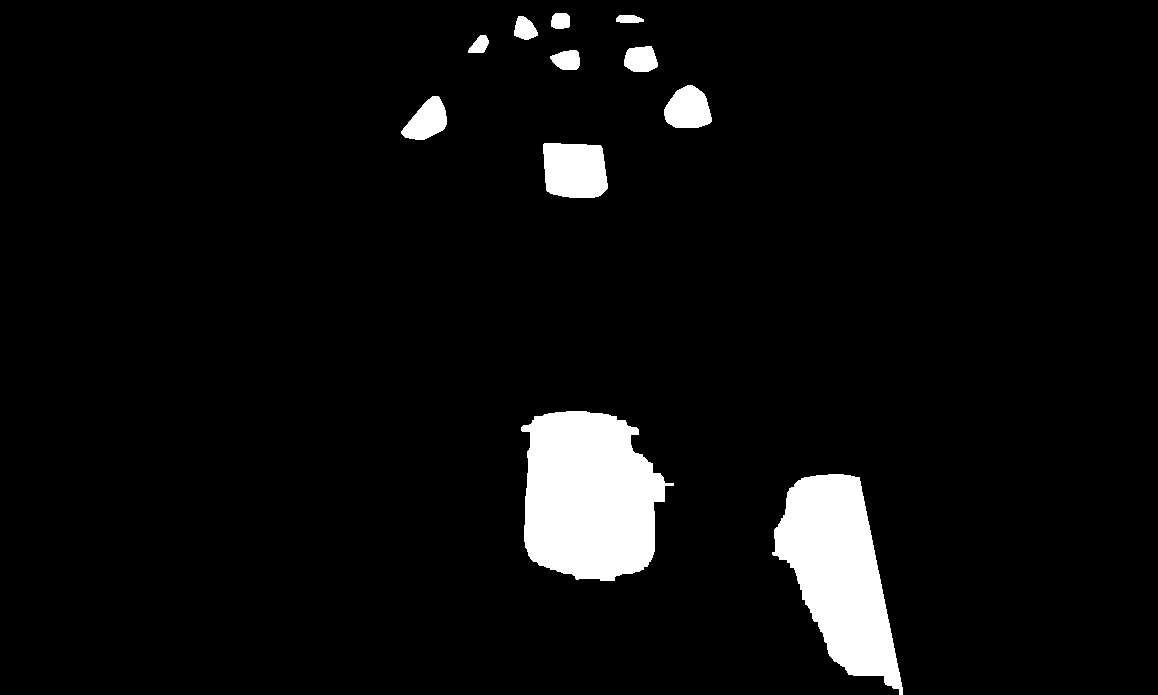
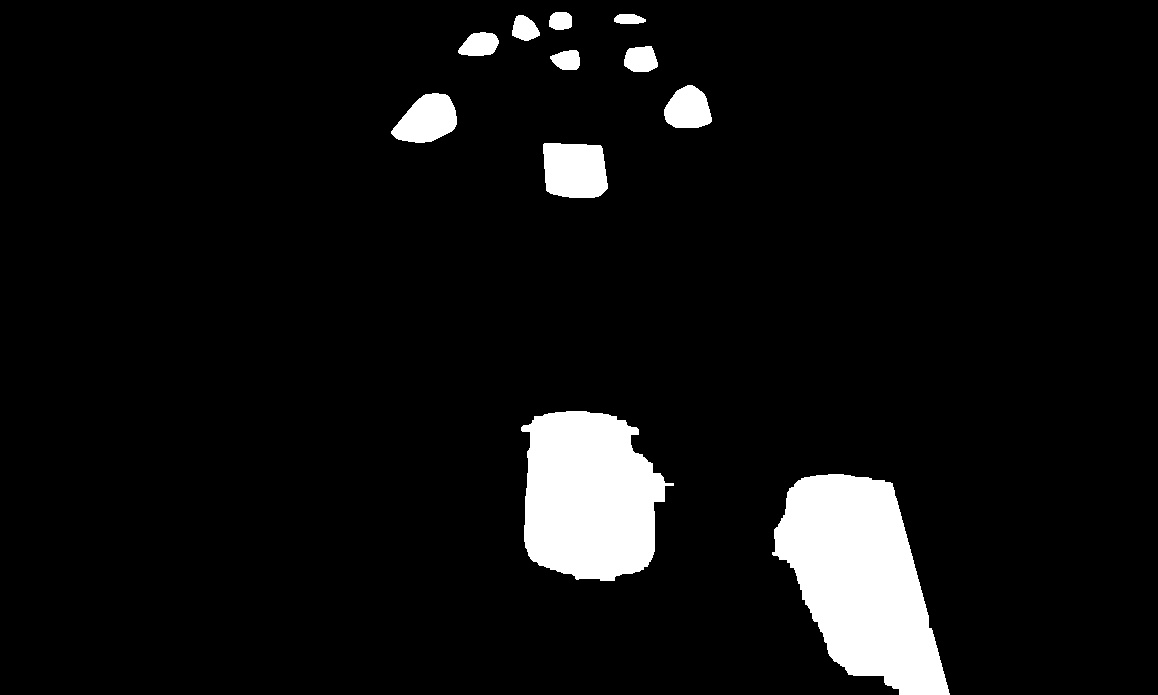
Precision segmentation of automotive masks

Changed region(s): [[0.7461, 0.6647, 0.8394, 1.0], [0.342, 0.1209, 0.4041, 0.2115], [0.3731, 0.0302, 0.4663, 0.0906]]

diff --git a/src/vehicle_detection.py b/src/vehicle_detection.py
@@ -26,9 +26,9 @@ def detect_vehicles(img, lane_result):
     veh_roi = np.zeros((h, w), dtype=np.uint8)
     cv2.fillPoly(veh_roi, [np.array([
         [int(w * 0.28), h],
-        [int(w * 0.36), int(h * 0.02)],
+        [int(w * 0.34), int(h * 0.02)],
         [int(w * 0.66), int(h * 0.02)],
-        [int(w * 0.78), h],
+        [int(w * 0.82), h],
     ], dtype=np.int32)], (255,))
 
     median_band = _build_median_band(yellow_mask, veh_roi, h)
@@ -142,6 +142,24 @@ def _fill_vehicle_mask(vehicle_mask):
         a = cv2.contourArea(cnt)
         if a < 50:
             continue
+        x, y, bw, bh = cv2.boundingRect(cnt)
+        if y < 45 and a < 500:
+            tiny = np.zeros_like(vehicle_mask)
+            cv2.drawContours(tiny, [cv2.convexHull(cnt)], -1, (255,), -1)
+            kernel_size = (21, 7) if x < 500 else (5, 3)
+            tiny = cv2.dilate(tiny,
+                              cv2.getStructuringElement(cv2.MORPH_ELLIPSE, kernel_size),
+                              iterations=1)
+            filled = cv2.bitwise_or(filled, tiny)
+            continue
+        if x < 480 and y < 160 and a < 2500:
+            left_lane = np.zeros_like(vehicle_mask)
+            cv2.drawContours(left_lane, [cv2.convexHull(cnt)], -1, (255,), -1)
+            left_lane = cv2.dilate(left_lane,
+                                   cv2.getStructuringElement(cv2.MORPH_ELLIPSE, (21, 7)),
+                                   iterations=1)
+            filled = cv2.bitwise_or(filled, left_lane)
+            continue
         if a > 6000:
             cv2.drawContours(filled, [cnt], -1, (255,), -1)
         else:
@@ -180,4 +198,3 @@ def _filter_vehicle_components(filled, H_ch, S_ch, h, w):
 
         vehicles.append((int(x), int(y), int(bw), int(bh)))
     return vehicles
-
